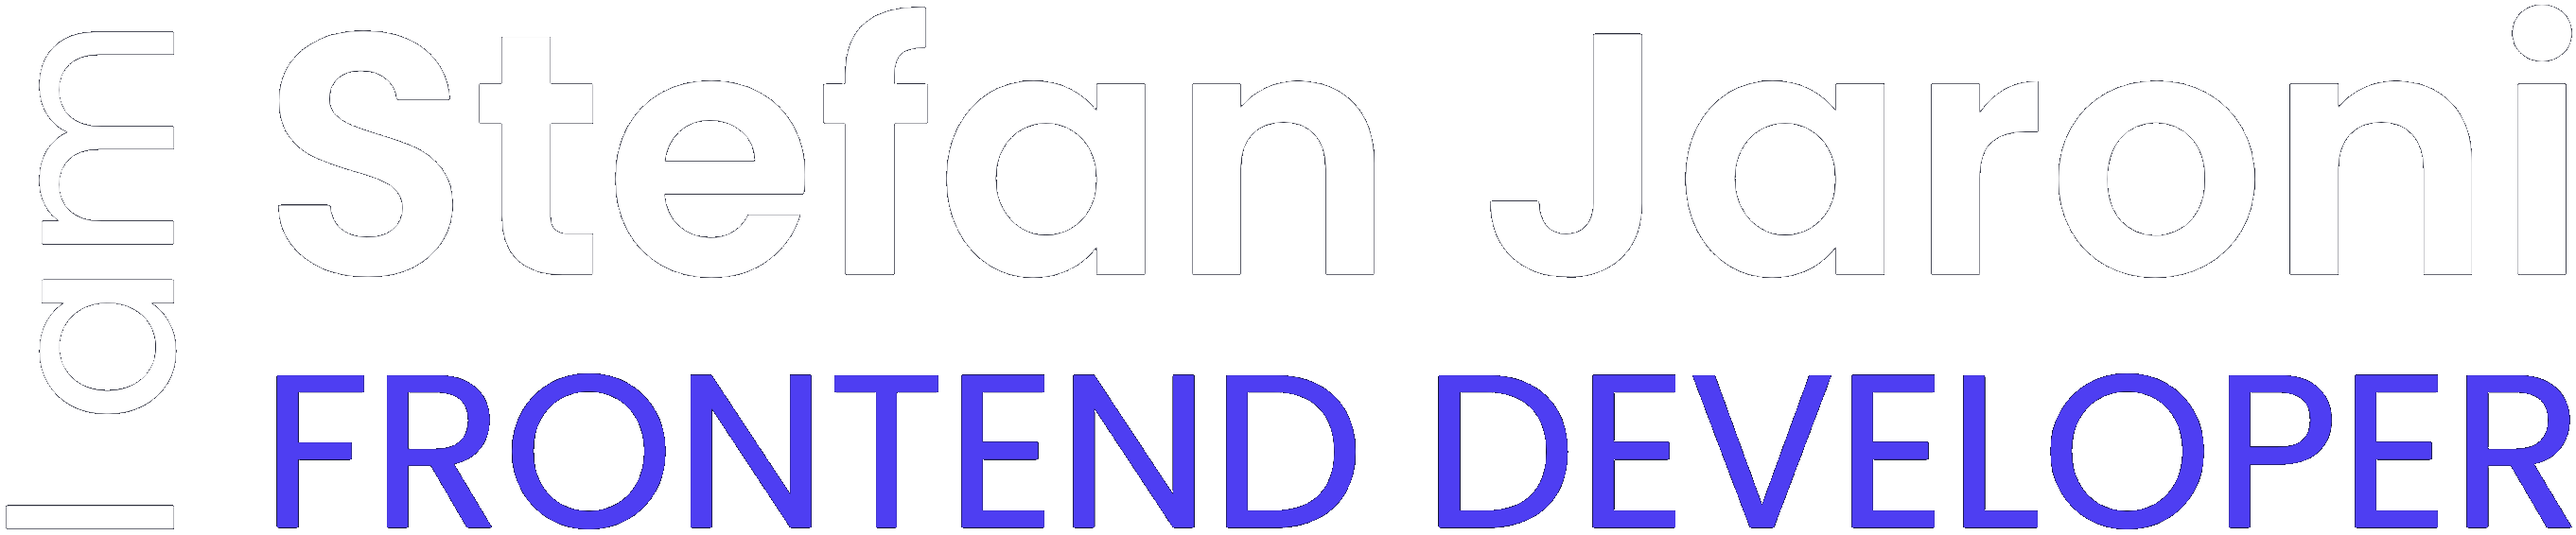
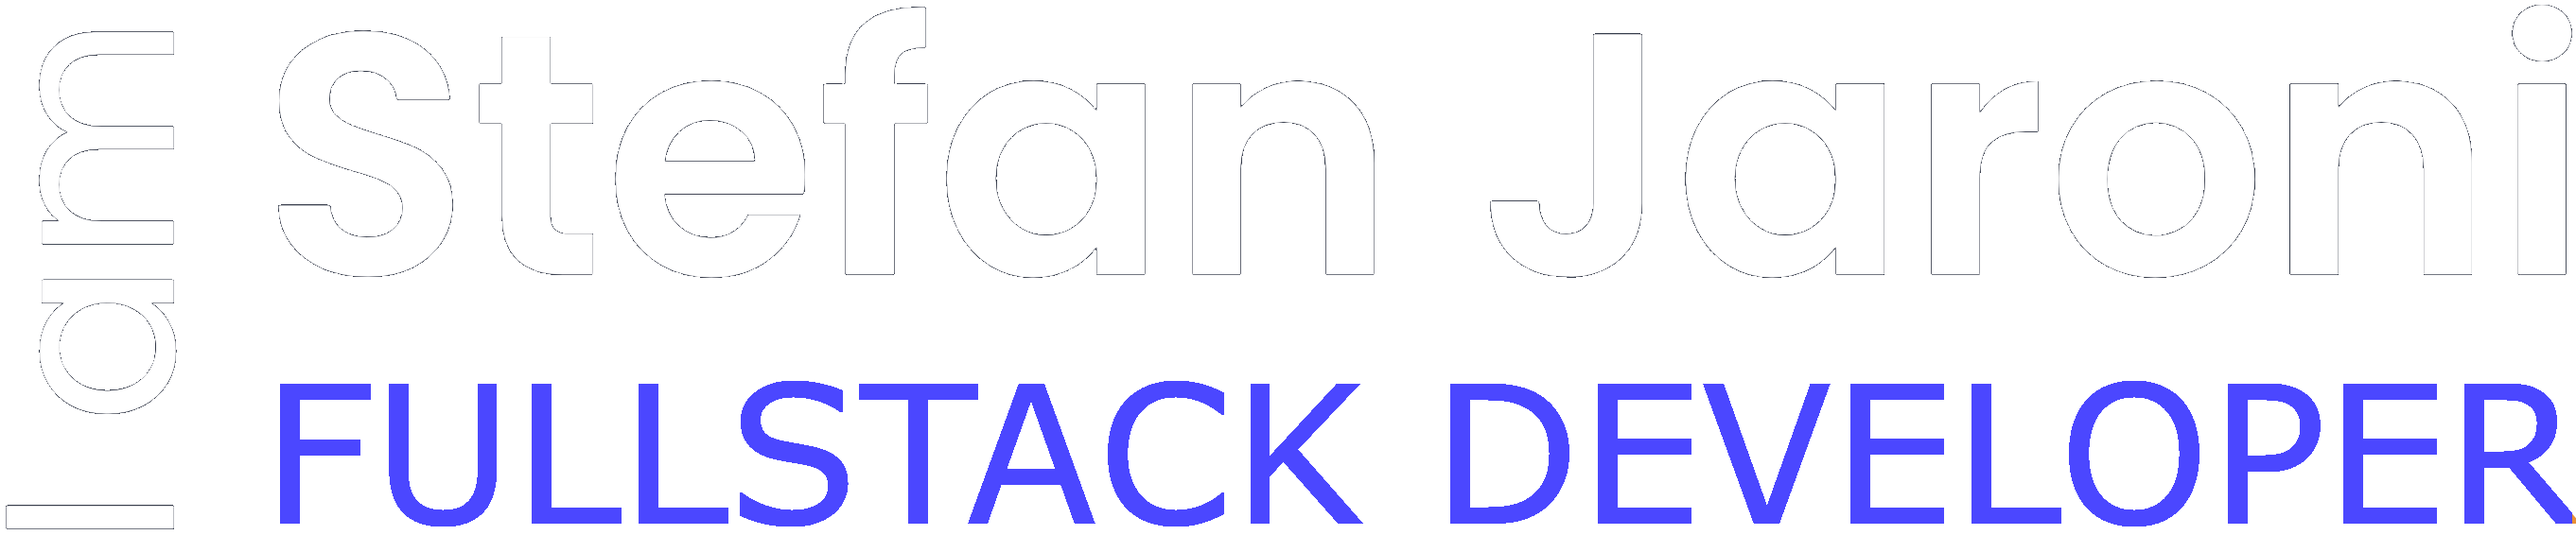
Revised text to highlight new fullstack development skills

Changed region(s): [[0.0936, 0.6908, 1.0, 0.9912]]

diff --git a/src/index.html b/src/index.html
@@ -5,8 +5,8 @@
   <title>Stefan Jaroni - Portfolio</title>
   <base href="/">
   <meta name="viewport" content="width=device-width, initial-scale=1">
-  <meta name="description" content="Entdecken Sie die Arbeiten von Stefan Jaroni, einem erfahrenen Frontend-Entwickler aus Osterholz-Scharmbeck. Spezialisiert auf moderne Webentwicklung mit HTML, CSS, JavaScript, Angular und Vue.js.">
-  <meta name="keywords" content="Frontend-Entwickler, Webentwickler, HTML, CSS, JavaScript, Angular, Vue.js, Responsive Design, Webentwicklung in Niedersachsen, Benutzerfreundliche Websites">
+  <meta name="description" content="Entdecken Sie die Arbeiten von Stefan Jaroni, einem erfahrenen Fullstack-Entwickler aus Osterholz-Scharmbeck. Spezialisiert auf moderne Webentwicklung mit HTML, CSS, JavaScript, Angular, NestJS und Vue.js.">
+  <meta name="keywords" content="Fullstack-Entwickler, Webentwickler, HTML, CSS, JavaScript, Angular, Vue.js, NestJS, TypeORM, MySQL, Responsive Design, Webentwicklung in Niedersachsen, Benutzerfreundliche Websites">
   <link rel="icon" type="image/x-icon" href="favicon.ico">
 </head>
 <body>

diff --git a/src/app/main-content/my-skills/my-skills.component.ts b/src/app/main-content/my-skills/my-skills.component.ts
@@ -21,6 +21,7 @@ export class MySkillsComponent {
 
   applications: Applications[] = [
     { name: 'Angular', icon: './assets/img/my-skills/angular.svg' },
+    { name: 'NestJS', icon: './assets/img/my-skills/nestjs.svg' },
     { name: 'Vue.js', icon: './assets/img/my-skills/vue.svg' },
     { name: 'TypeScript', icon: './assets/img/my-skills/typescript.svg' },
     { name: 'JavaScript', icon: './assets/img/my-skills/javascript.svg' },
@@ -31,7 +32,6 @@ export class MySkillsComponent {
     { name: 'Material design', icon: './assets/img/my-skills/material.svg' },
     { name: 'Rest-Api', icon: './assets/img/my-skills/api.svg' },
     { name: 'Scrum', icon: './assets/img/my-skills/scrum.svg' },
-    { name: '', icon: '' },
     { name: '', icon: '' },
   ];
 }

diff --git a/src/app/main-content/main-content.component.ts b/src/app/main-content/main-content.component.ts
@@ -18,8 +18,7 @@ import { Title } from '@angular/platform-browser';
     AboutMeComponent,
     MySkillsComponent,
     PortfolioComponent,
-    ContactComponent,
-    DistanceAreaComponent,
+    ContactComponent
   ],
   templateUrl: './main-content.component.html',
   styleUrl: './main-content.component.scss',
@@ -27,7 +26,7 @@ import { Title } from '@angular/platform-browser';
 export class MainContentComponent implements OnInit {
   titles: string[] = [
       'Stefan Jaroni - Portfolio', 
-      'Frontend Developer'];
+      'Fullstack Developer'];
   currentTitleIndex = 0;
   sharedData = inject(SharedDataService);  
   defaultThreshold = .4;  
